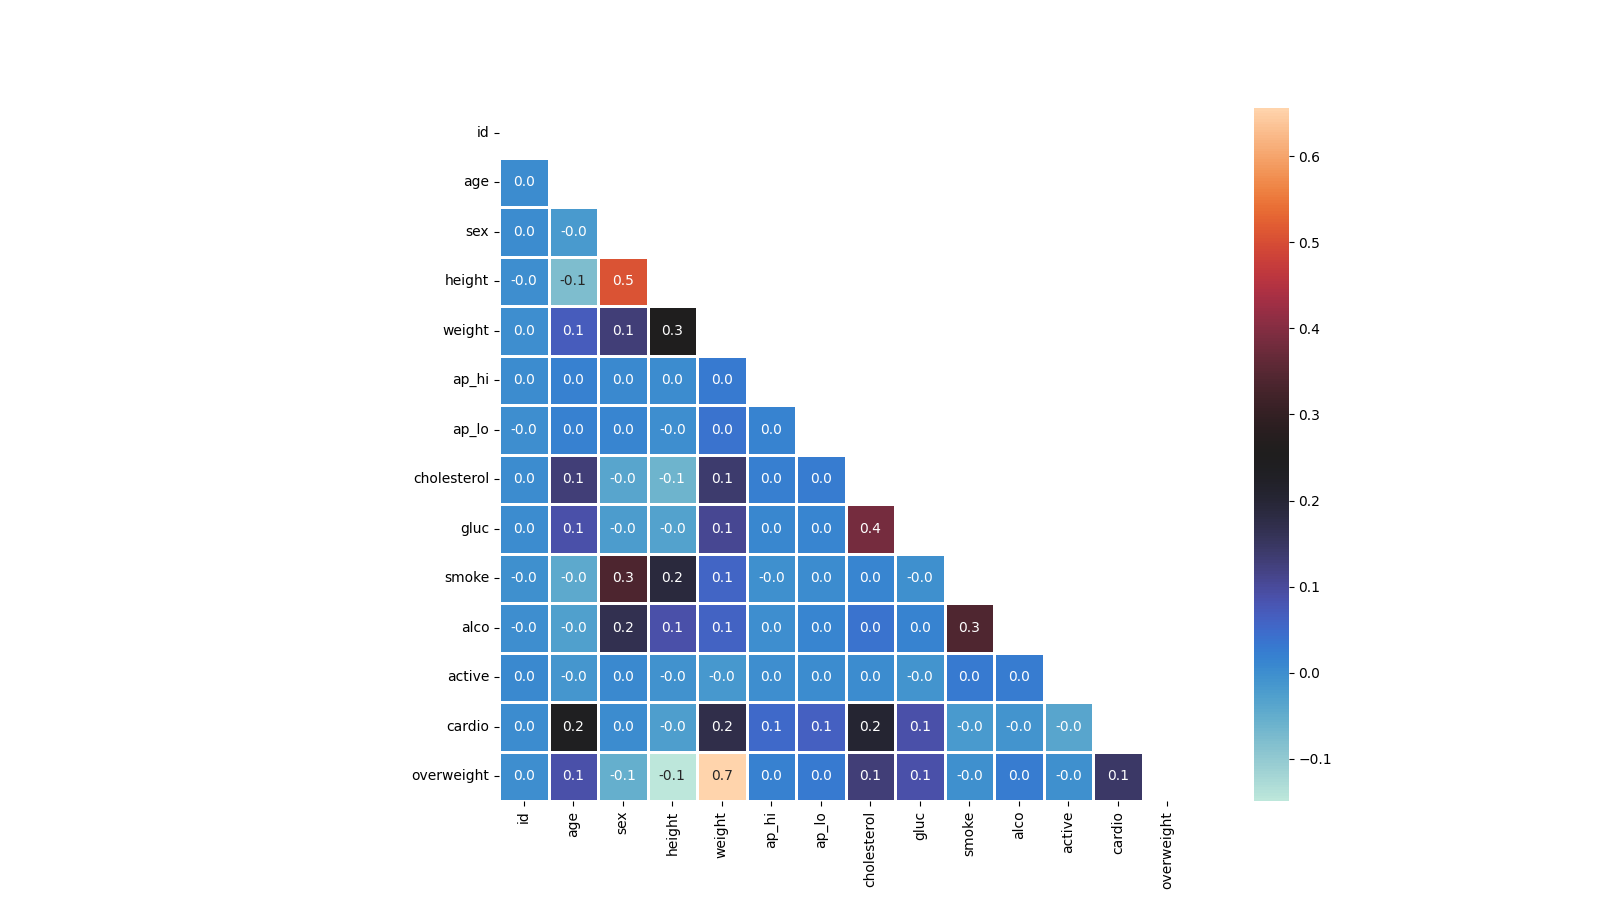
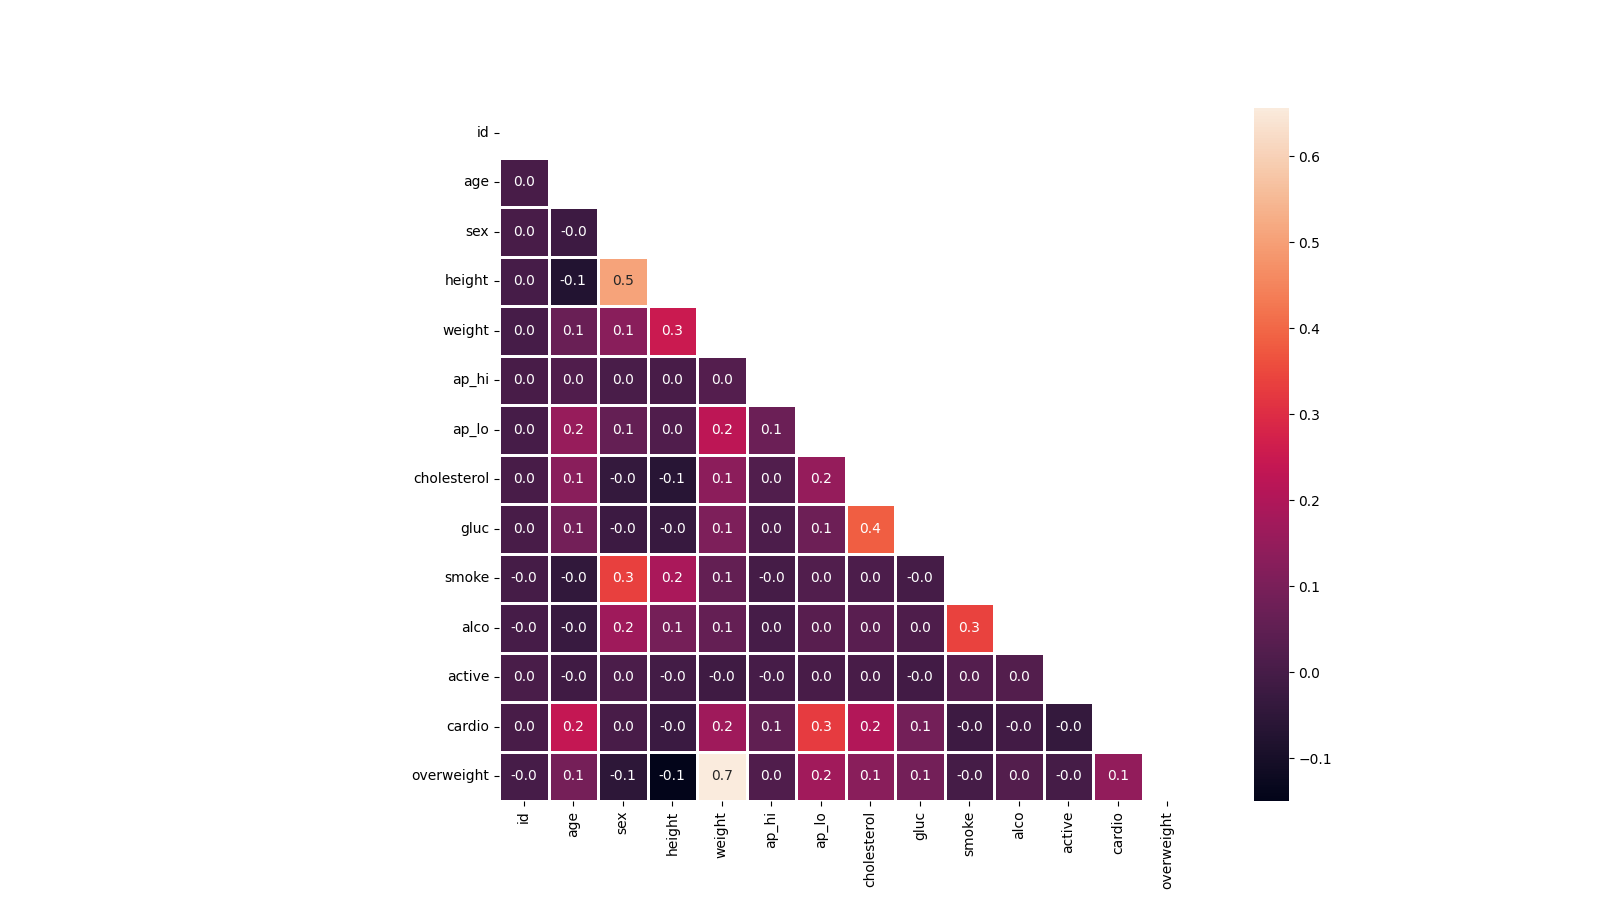
add ap_lo < ap_hi filter to heatmap

Changed region(s): [[0.3125, 0.1556, 0.7188, 0.9022], [0.7812, 0.1244, 0.8125, 0.9022]]

diff --git a/medical_data_visualizer.py b/medical_data_visualizer.py
@@ -18,7 +18,6 @@ def convert_to_zeros_ones(cell_data):
 df['cholesterol'] = df['cholesterol'].apply(convert_to_zeros_ones)
 df['gluc'] = df['gluc'].apply(convert_to_zeros_ones)
 
-
 # Draw Categorical Plot
 def draw_cat_plot():
     # Create DataFrame for cat plot using `pd.melt` using just the values from 'cholesterol', 'gluc', 'smoke', 'alco', 'active', and 'overweight'.
@@ -53,12 +52,13 @@ def draw_cat_plot():
 # Draw Heat Map
 def draw_heat_map():
     # Clean the data
+    # diastolic pressure is higher than systolic (Keep the correct data with (df['ap_lo'] <= df['ap_hi']))
     # height is less than the 2.5th percentile (Keep the correct data with (df['height'] >= df['height'].quantile(0.025)))
     # height is more than the 97.5th percentile
     # weight is less than the 2.5th percentile
     # weight is more than the 97.5th percentile
   
-    df_heat = df[(df['height'] >= df['height'].quantile(0.025)) & (df['height'] <= df['height'].quantile(0.975)) & (df['weight'] >= df['weight'].quantile(0.025)) & (df['weight'] <= df['weight'].quantile(0.975))]
+    df_heat = df[(df['ap_lo'] <= df['ap_hi']) & (df['height'] >= df['height'].quantile(0.025)) & (df['height'] <= df['height'].quantile(0.975)) & (df['weight'] >= df['weight'].quantile(0.025)) & (df['weight'] <= df['weight'].quantile(0.975))]
 
     # Calculate the correlation matrix
     corr = df_heat.corr()
@@ -71,7 +71,7 @@ def draw_heat_map():
     fig, ax = plt.subplots(figsize=(16, 9))
 
     # Draw the heatmap with 'sns.heatmap()'
-    sns.heatmap(data=corr, mask=mask, annot=True, square=True, linewidths=1,  fmt="0.1f", cmap="icefire")
+    sns.heatmap(data=corr, mask=mask, annot=True, square=True, linewidths=1,  fmt="0.1f")
 
 
 
